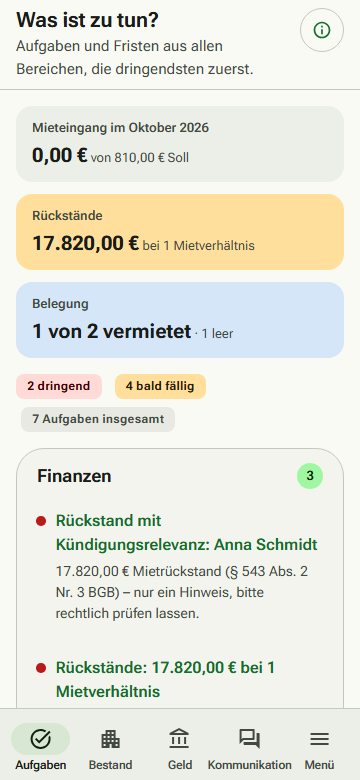
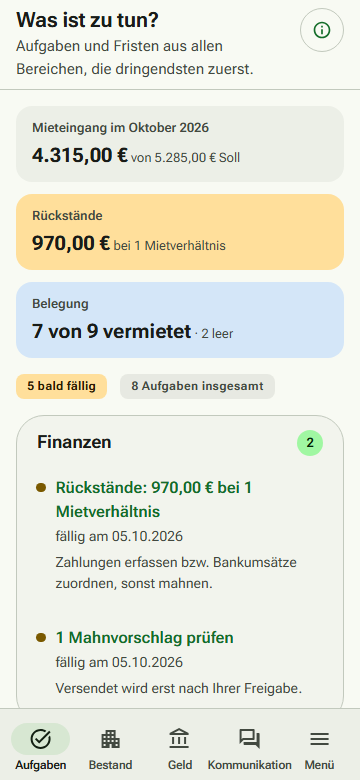
Screenshots mit Häusern und Belegung; README: Grenzen gekürzt
- Neuer Test auf Abruf (ELOCARO_SHOWCASE=1) erzeugt Screenshots mit zwei Häusern,
  Wohnungen, WG-Zimmern und Mietern
- README: Hero und Tabelle zeigen Belegung und Einheiten statt Zahlenlisten
- Abschnitt „Grenzen“ nennt nur noch den Hinweis auf fehlende Rechts- und Steuerberatung

diff --git a/tests/Elocaro.Web.Tests/Browser/ShowcaseTests.cs b/tests/Elocaro.Web.Tests/Browser/ShowcaseTests.cs
@@ -1,0 +1,152 @@
+using System.Globalization;
+using Elocaro.Application.Documents;
+using Elocaro.Application.Finance;
+using Elocaro.Application.Leases;
+using Elocaro.Application.People;
+using Elocaro.Application.Properties;
+using Elocaro.Domain.Common;
+using Elocaro.Domain.Leases;
+using Microsoft.Extensions.DependencyInjection;
+using Microsoft.Playwright;
+
+namespace Elocaro.Web.Tests.Browser;
+
+/// <summary>Screenshots for README and website with a realistic portfolio (two houses, flats, a shared flat), on demand: ELOCARO_SHOWCASE=1 ELOCARO_TOUR_DIR=/pfad.</summary>
+public class ShowcaseTests(PostgresFixture postgres) : BrowserTestBasis(postgres)
+{
+    private static CancellationToken Ct => TestContext.Current.CancellationToken;
+
+    protected override void ConfigureServices(IServiceCollection services) => services.AddScoped<IPdfGenerator, FakePdfGenerator>();
+
+    [Fact]
+    public async Task Screenshots_of_a_realistic_portfolio()
+    {
+        if (Environment.GetEnvironmentVariable("ELOCARO_SHOWCASE") is null)
+        {
+            Assert.Skip("Nur auf Abruf: ELOCARO_SHOWCASE=1");
+        }
+
+        var directory = Environment.GetEnvironmentVariable("ELOCARO_TOUR_DIR") ?? Path.Combine(Path.GetTempPath(), "elocaro-showcase");
+        Directory.CreateDirectory(directory);
+        var page = await SignedInAsAdminAsync(mobile: false);
+        var (house, lease) = await SeedPortfolioAsync();
+
+        await page.SetViewportSizeAsync(1280, 900);
+        await ShootAsync(page, "/verwaltung", Path.Combine(directory, "dashboard.png"));
+        await ShootAsync(page, "/verwaltung/objekte", Path.Combine(directory, "objekte.png"));
+        await ShootAsync(page, $"/verwaltung/objekte/{house}", Path.Combine(directory, "objekt.png"));
+        await ShootAsync(page, $"/verwaltung/vertraege/{lease}", Path.Combine(directory, "mietvertrag.png"));
+        await page.SetViewportSizeAsync(1280, 1000);
+        await ShootAsync(page, $"/verwaltung/objekte/{house}/belegung", Path.Combine(directory, "belegung.png"));
+
+        await page.SetViewportSizeAsync(360, 780);
+        await ShootAsync(page, "/verwaltung", Path.Combine(directory, "handy-aufgaben.png"));
+        await ShootAsync(page, $"/verwaltung/objekte/{house}/belegung", Path.Combine(directory, "handy-belegung.png"));
+    }
+
+    private async Task ShootAsync(IPage page, string path, string target)
+    {
+        await page.GotoAsync(BaseUrl + path);
+        try
+        {
+            await page.WaitForLoadStateAsync(LoadState.NetworkIdle, new() { Timeout = 5000 });
+        }
+        catch (TimeoutException)
+        {
+            // Pages with a permanent connection never become idle; the screenshot is taken anyway.
+        }
+
+        await page.WaitForTimeoutAsync(400);
+        await page.ScreenshotAsync(new() { Path = target });
+    }
+
+    private async Task<(Guid House, Guid Lease)> SeedPortfolioAsync()
+    {
+        var today = GermanTime.Today(App.Clock.GetUtcNow());
+        var start = new DateOnly(today.Year - 1, 1, 1);
+        return await App.WithScopeAsync(async sp =>
+        {
+            var properties = sp.GetRequiredService<IPropertyService>();
+            var people = sp.GetRequiredService<IPersonService>();
+            var leases = sp.GetRequiredService<ILeaseService>();
+            var accounts = sp.GetRequiredService<ITenantAccounts>();
+            await sp.GetRequiredService<IFinanceSettings>().SaveAsync(new FinanceSettingsInput { AccountingStart = start }, Ct);
+
+            var leaseIds = new List<(Guid Id, decimal Rent, Guid From)>();
+            Guid first = default;
+
+            async Task<Guid> HouseAsync(string name, string street, string postalCode)
+            {
+                return (await properties.CreateAsync(new PropertyInput { Name = name, Street = street, PostalCode = postalCode, City = "Köln" }, Ct)).Id!.Value;
+            }
+
+            async Task<Guid> FlatAsync(Guid property, string name, string location, decimal area)
+            {
+                var unit = (await properties.CreateUnitAsync(property, new UnitInput { Name = name, Location = location }, Ct)).Id!.Value;
+                await properties.SetUnitAreaAsync(unit, new AreaInput { From = start, Area = area }, Ct);
+                return unit;
+            }
+
+            async Task<Guid> TenantAsync(string firstName, string lastName) =>
+                (await people.CreateAsync(new PersonInput { FirstName = firstName, LastName = lastName, Email = $"{firstName.ToLowerInvariant()}@example.de" }, null, Ct)).Id!.Value;
+
+            async Task RentAsync(Guid rentalUnit, Guid tenant, decimal baseRent, decimal operatingCosts, decimal heatingCosts)
+            {
+                var id = (await leases.CreateAsync(
+                    new LeaseCreation { RentalUnitId = rentalUnit, Start = start, TenantIds = [tenant], BaseRent = baseRent, OperatingCostPrepayment = operatingCosts, HeatingCostPrepayment = heatingCosts }, Ct)).Id!.Value;
+                leaseIds.Add((id, baseRent + operatingCosts + heatingCosts, rentalUnit));
+                if (first == default)
+                {
+                    first = id;
+                }
+            }
+
+            var main = await HouseAsync("Lindenweg 3", "Lindenweg 3", "50667");
+            await RentAsync(await FlatAsync(main, "Wohnung 1", "EG links", 62m), await TenantAsync("Anna", "Schmidt"), 650m, 120m, 40m);
+            await RentAsync(await FlatAsync(main, "Wohnung 2", "EG rechts", 58m), await TenantAsync("Ben", "Weber"), 620m, 115m, 40m);
+            await RentAsync(await FlatAsync(main, "Wohnung 3", "1. OG", 74m), await TenantAsync("Clara", "Hoffmann"), 780m, 140m, 50m);
+            await FlatAsync(main, "Wohnung 4", "DG", 49m);
+
+            var shared = await FlatAsync(main, "WG Dachgarten", "2. OG", 96m);
+            string[] roomTenants = ["Dana Krüger", "Emil Wagner"];
+            for (var i = 0; i < 3; i++)
+            {
+                var room = (await properties.CreateRoomAsync(shared, new RoomInput { Name = $"Zimmer {i + 1}" }, Ct)).Id!.Value;
+                if (i >= roomTenants.Length)
+                {
+                    continue; // the third room stays empty
+                }
+
+                var name = roomTenants[i].Split(' ');
+                var id = (await leases.CreateAsync(
+                    new LeaseCreation { RentalUnitId = room, Start = start, TenantIds = [await TenantAsync(name[0], name[1])], BillingType = BillingType.FlatRate, BaseRent = 390m, OperatingCostFlatRate = 90m }, Ct)).Id!.Value;
+                leaseIds.Add((id, 480m, room));
+            }
+
+            var garden = await HouseAsync("Gartenstraße 12", "Gartenstraße 12", "50823");
+            await RentAsync(await FlatAsync(garden, "Erdgeschoss", "EG", 70m), await TenantAsync("Fiona", "Neumann"), 700m, 130m, 45m);
+            await RentAsync(await FlatAsync(garden, "Obergeschoss", "1. OG", 70m), await TenantAsync("Georg", "Bauer"), 720m, 130m, 45m);
+
+            await accounts.GenerateChargesAsync(null, Ct);
+
+            // Everybody pays on time, except the third lease, which is one month behind: a small arrears item for the dashboard.
+            var months = Enumerable.Range(0, 24).Select(i => start.AddMonths(i)).Where(m => m <= new DateOnly(today.Year, today.Month, 1)).ToList();
+            foreach (var (id, rent, _) in leaseIds)
+            {
+                var behind = leaseIds[2].Id == id;
+                foreach (var month in months)
+                {
+                    var date = month.AddDays(2);
+                    if (date > today || (behind && month == months[^1]))
+                    {
+                        continue;
+                    }
+
+                    await accounts.RecordPaymentAsync(id, new PaymentInput { Date = date, Amount = rent, Purpose = "Miete " + month.ToString("MM/yyyy", CultureInfo.InvariantCulture) }, Ct);
+                }
+            }
+
+            return (main, first);
+        });
+    }
+}

diff --git a/README.md b/README.md
@@ -2,7 +2,7 @@
 
 **Die Vermieterverwaltung, die Ihnen gehört.** Elocaro ist eine selbst betriebene Verwaltung für private Vermieter: Objekte, Mieter und Verträge, Mieteingänge, Nebenkosten- und Heizkostenabrechnung, Steuerunterlagen und ein Mieterportal. Alle Daten liegen bei Ihnen, jederzeit vollständig exportierbar, ohne Abo und ohne Module hinter einer Bezahlschranke.
 
-![Umsätze zuordnen: Vorschläge mit Begründung](docs/bilder/umsaetze-zuordnen.png)
+![Haus heute: Wohnungen, WG-Zimmer und Belegung auf einen Blick](docs/bilder/haus-belegung.png)
 
 ## Was Elocaro kann
 
@@ -14,9 +14,9 @@
 - **Dokumente:** Mietvertrag, Mieterhöhung, Übergabeprotokoll, Schreiben aus Vorlagen als PDF.
 - **Betrieb:** Zwei-Faktor-Anmeldung, Audit-Log, nächtliche Datensicherung, Vollexport (JSON/CSV/Dateien), Handy-Oberfläche und installierbare Web-App.
 
-| Abrechnungs-Assistent | Mietvertrag | Handy |
+| Objekt mit Einheiten | Umsätze zuordnen | Handy |
 |---|---|---|
-| ![Abrechnungs-Assistent](docs/bilder/abrechnungs-assistent.png) | ![Mietvertrag](docs/bilder/mietvertrag.png) | ![Aufgaben auf dem Handy](docs/bilder/handy-aufgaben.png) |
+| ![Objekt mit Wohnungen, WG-Zimmern und Mietern](docs/bilder/objekt-uebersicht.png) | ![Umsätze zuordnen](docs/bilder/umsaetze-zuordnen.png) | ![Belegung auf dem Handy](docs/bilder/handy-belegung.png) |
 
 ## Für wen ist das?
 
@@ -34,12 +34,9 @@ git clone https://github.com/Elocaro/elocaro.git && cd elocaro
 
 Der erste Aufruf führt durch die Ersteinrichtung (Administrator-Konto, Zwei-Faktor-Anmeldung, Einrichtungsassistent).
 
-## Grenzen (ehrlich gesagt)
+## Grenzen
 
-- Elocaro ist **keine Rechts- und keine Steuerberatung**. Vorlagen, Rechenwerte (Basiszinssatz, CO₂-Stufen, Gradtagszahlen) und Hinweise sind Arbeitshilfen. Prüfen Sie Texte und Beträge, bevor Sie sie verwenden oder versenden. Die Seite „Über Elocaro“ und die Seiteninfos nennen die jeweiligen Rechtsgrundlagen.
-- Der FinTS-Abruf ist bisher nur gegen Beispieldaten getestet; Verfahren mit Bild-TAN (photoTAN, QR) werden noch nicht angezeigt. Der Kontoauszug-Import per Datei funktioniert unabhängig davon.
-- Es gibt keine native App (nur die installierbare Web-App) und noch keine direkte ELSTER-Übermittlung.
-- Betrieb, Updates und Datensicherung liegen bei Ihnen. Hilfe gibt es über die [Issues](https://github.com/Elocaro/elocaro/issues), nicht über eine Hotline.
+Elocaro ist **keine Rechts- und keine Steuerberatung**. Vorlagen und Rechenwerte sind Arbeitshilfen; bitte vor dem Einsatz prüfen. Hilfe gibt es über die [Issues](https://github.com/Elocaro/elocaro/issues).
 
 **Stack:** .NET 10 · Blazor Static SSR · PostgreSQL · Docker Compose
 
